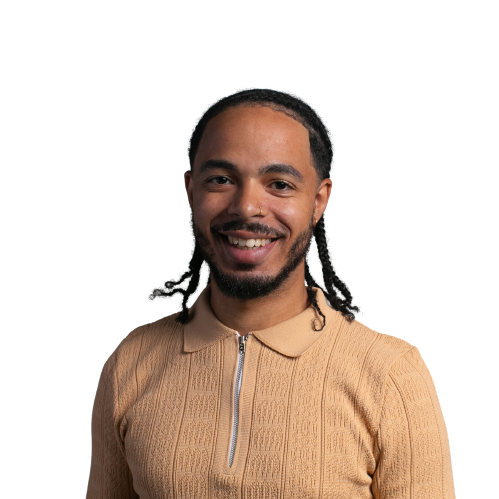
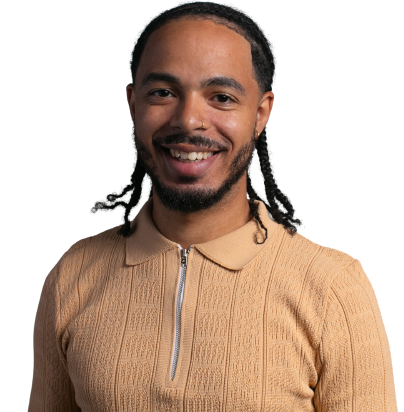
Edit responsiveness for navbar, about page, and portfolio page

diff --git a/src/Components/Nav.js b/src/Components/Nav.js
@@ -63,18 +63,18 @@ export default function Nav({ toggleMode }) {
     };
 
     return (
-      <div className="h-full w-full absolute">
-        <Link
-          className="flex w-full justify-center sm:absolute sm:right-0 sm:h-auto sm:w-60 z-10"
-          to={"/"}
+      <div className="h-20 w-full absolute z-50">
+        <div
+          className="fixed flex w-full h-auto justify-center bg-gradient-to-r from-primary to-dark md:absolute md:right-0 md:h-auto md:w-60 md:bg-none"
         >
           <img
             src={DevStackLogoLight}
             alt="DevStack Logo"
-            className="w-40 mt-4 sm:w-52"
+            className="w-40 mt-4 sm:w-52 cursor-pointer"
+            onClick={() => navigate("/")}
           />
-        </Link>
-        <div className="hidden md:flex flex-col fixed top-[20%] gap-12 ml-1 sm:ml-4 z-10">
+        </div>
+        <div className="hidden md:flex flex-col fixed top-[20%] gap-12 ml-1 sm:ml-4">
           <div className="flex items-center gap-4">
             <MdHome
               onClick={() => navigate("/")}
@@ -163,7 +163,7 @@ export default function Nav({ toggleMode }) {
           </div>
         </div>
 
-        <div className="h-10 w-10 flex justify-center absolute top-6 left-4">
+        <div className="h-10 w-10 flex justify-center fixed top-6 left-4">
           <div className="z-10 md:hidden">
             <AiOutlineMenu
               onClick={toggleNav}
@@ -172,7 +172,7 @@ export default function Nav({ toggleMode }) {
             />
           </div>
           {showNav && (
-            <div className="absolute top-6 ml-10 w-fit pr-1 bg-primary rounded transition-transform duration-1000 ease-in-out transform translate-y-4 z-30 md:hidden">
+            <div className="fixed top-9 ml-20 w-fit pr-1 z-40 bg-primary transition-transform duration-1000 ease-in-out transform translate-y-4 md:hidden">
               <div
                 className={`flex items-center gap-1 group ${
                   isDarkText("/") ? "text-dark" : "text-secondary"

diff --git a/src/Components/AboutComponent.js b/src/Components/AboutComponent.js
@@ -15,7 +15,7 @@ export default function AboutComponent() {
     };
 
     return (
-      <div className="h-full w-full flex flex-col items-center">
+      <div className="h-full w-full flex flex-col items-center relative">
         <div className="bg-dark p-8 min-w-[300px] w-11/12 md:w-8/12 h-fit rounded-3xl mt-20">
           <h1 className="text-primary text-4xl text-center">
             Welcome to my portfolio website!
@@ -50,7 +50,7 @@ export default function AboutComponent() {
             </span>
           </p>
         </div>
-        <div className="flex flex-col items-center relative w-full">
+        <div className="flex flex-col items-center relative w-full h-full">
           <div>
             <h2
               onClick={toggleModal}
@@ -95,7 +95,7 @@ export default function AboutComponent() {
           </div>
 
           {showModal && (
-            <div className="flex flex-col gap-4 bg-dark mt-4 z-20 p-8 min-w-[300px] w-11/12 md:w-8/12 h-fit rounded-3xl relative">
+            <div className="flex flex-col gap-4 bg-dark mt-4 p-8 min-w-[300px] w-11/12 md:w-8/12 h-fit rounded-3xl absolute top-0 z-10">
               <AiOutlineCloseSquare onClick={toggleModal} className="text-blue cursor-pointer hover:text-primary" size={20}/>
               <h2 className="text-3xl text-primary text-center">
                 Joshua Nelson
@@ -130,8 +130,9 @@ export default function AboutComponent() {
               </p>
             </div>
           )}
-
-          <img src={pursuit_headshot} alt="headshot" />
+          {!showModal && (
+            <img src={pursuit_headshot} alt="headshot" className="mt-4" />
+          )}
         </div>
       </div>
     );

diff --git a/src/Components/Project.js b/src/Components/Project.js
@@ -9,7 +9,7 @@ export default function Project({ project }) {
   
   
     return (
-      <div className="min-h-96 w-full mt-20 p-16 gap-4 bg-dark flex flex-col items-start z-10 rounded-3xl hover:shadow-lg hover:shadow-blue">
+      <div className="min-h-96 w-full mt-10 p-8 gap-4 bg-dark flex flex-col items-start z-10 rounded-3xl hover:shadow-lg hover:shadow-blue">
         <div>
           <div className="flex gap-4">
             <a href={project.github_link} target="_blank" rel="noreferrer" className="text-blue hover:text-primary">
@@ -23,10 +23,14 @@ export default function Project({ project }) {
         <Link to={`/projects/${project.id}`} className="text-3xl text-blue font-semibold hover:text-primary">
           {project.title}
         </Link>
-        <p className="text-blue text-lg leading-loose">{project.description}</p>
-        <ul className="flex gap-10 flex-wrap">
+        <p className="text-blue text-lg">{project.description}</p>
+        <ul className="flex flex-wrap justify-start gap-x-4">
           {project.tech.map((str, index) => {
-            return <li key={index} className="text-primary">{str}</li>;
+              return (
+                <li key={index} className="text-primary">
+                  {str}
+                </li>
+              );
           })}
         </ul>
       </div>

diff --git a/src/Components/Projects.js b/src/Components/Projects.js
@@ -22,9 +22,10 @@ export default function Projects() {
                 setIsLoading(false);
             });
     }, []);
+
     return (
-      <div className="flex flex-col">
-        <h1 className="text-5xl text-blue font-semibold">Portfolio</h1>
+      <div className="flex flex-col items-center md:items-start">
+        <h1 className="text-5xl text-blue font-semibold mt-20">Portfolio</h1>
         {isLoading ? (
           <div className="flex justify-center items-center mt-52 gap-2">
             <h1 className="text-blue text-3xl">

diff --git a/src/Pages/Index.js b/src/Pages/Index.js
@@ -1,5 +1,5 @@
 import Projects from "../Components/Projects";
 
 export default function Index() {
-  return <div className="mx-[20%] py-[10%]"><Projects /></div>;
+  return <div className="mx-4 pb-10 sm:mx-8 md:mx-52"><Projects /></div>;
 }
